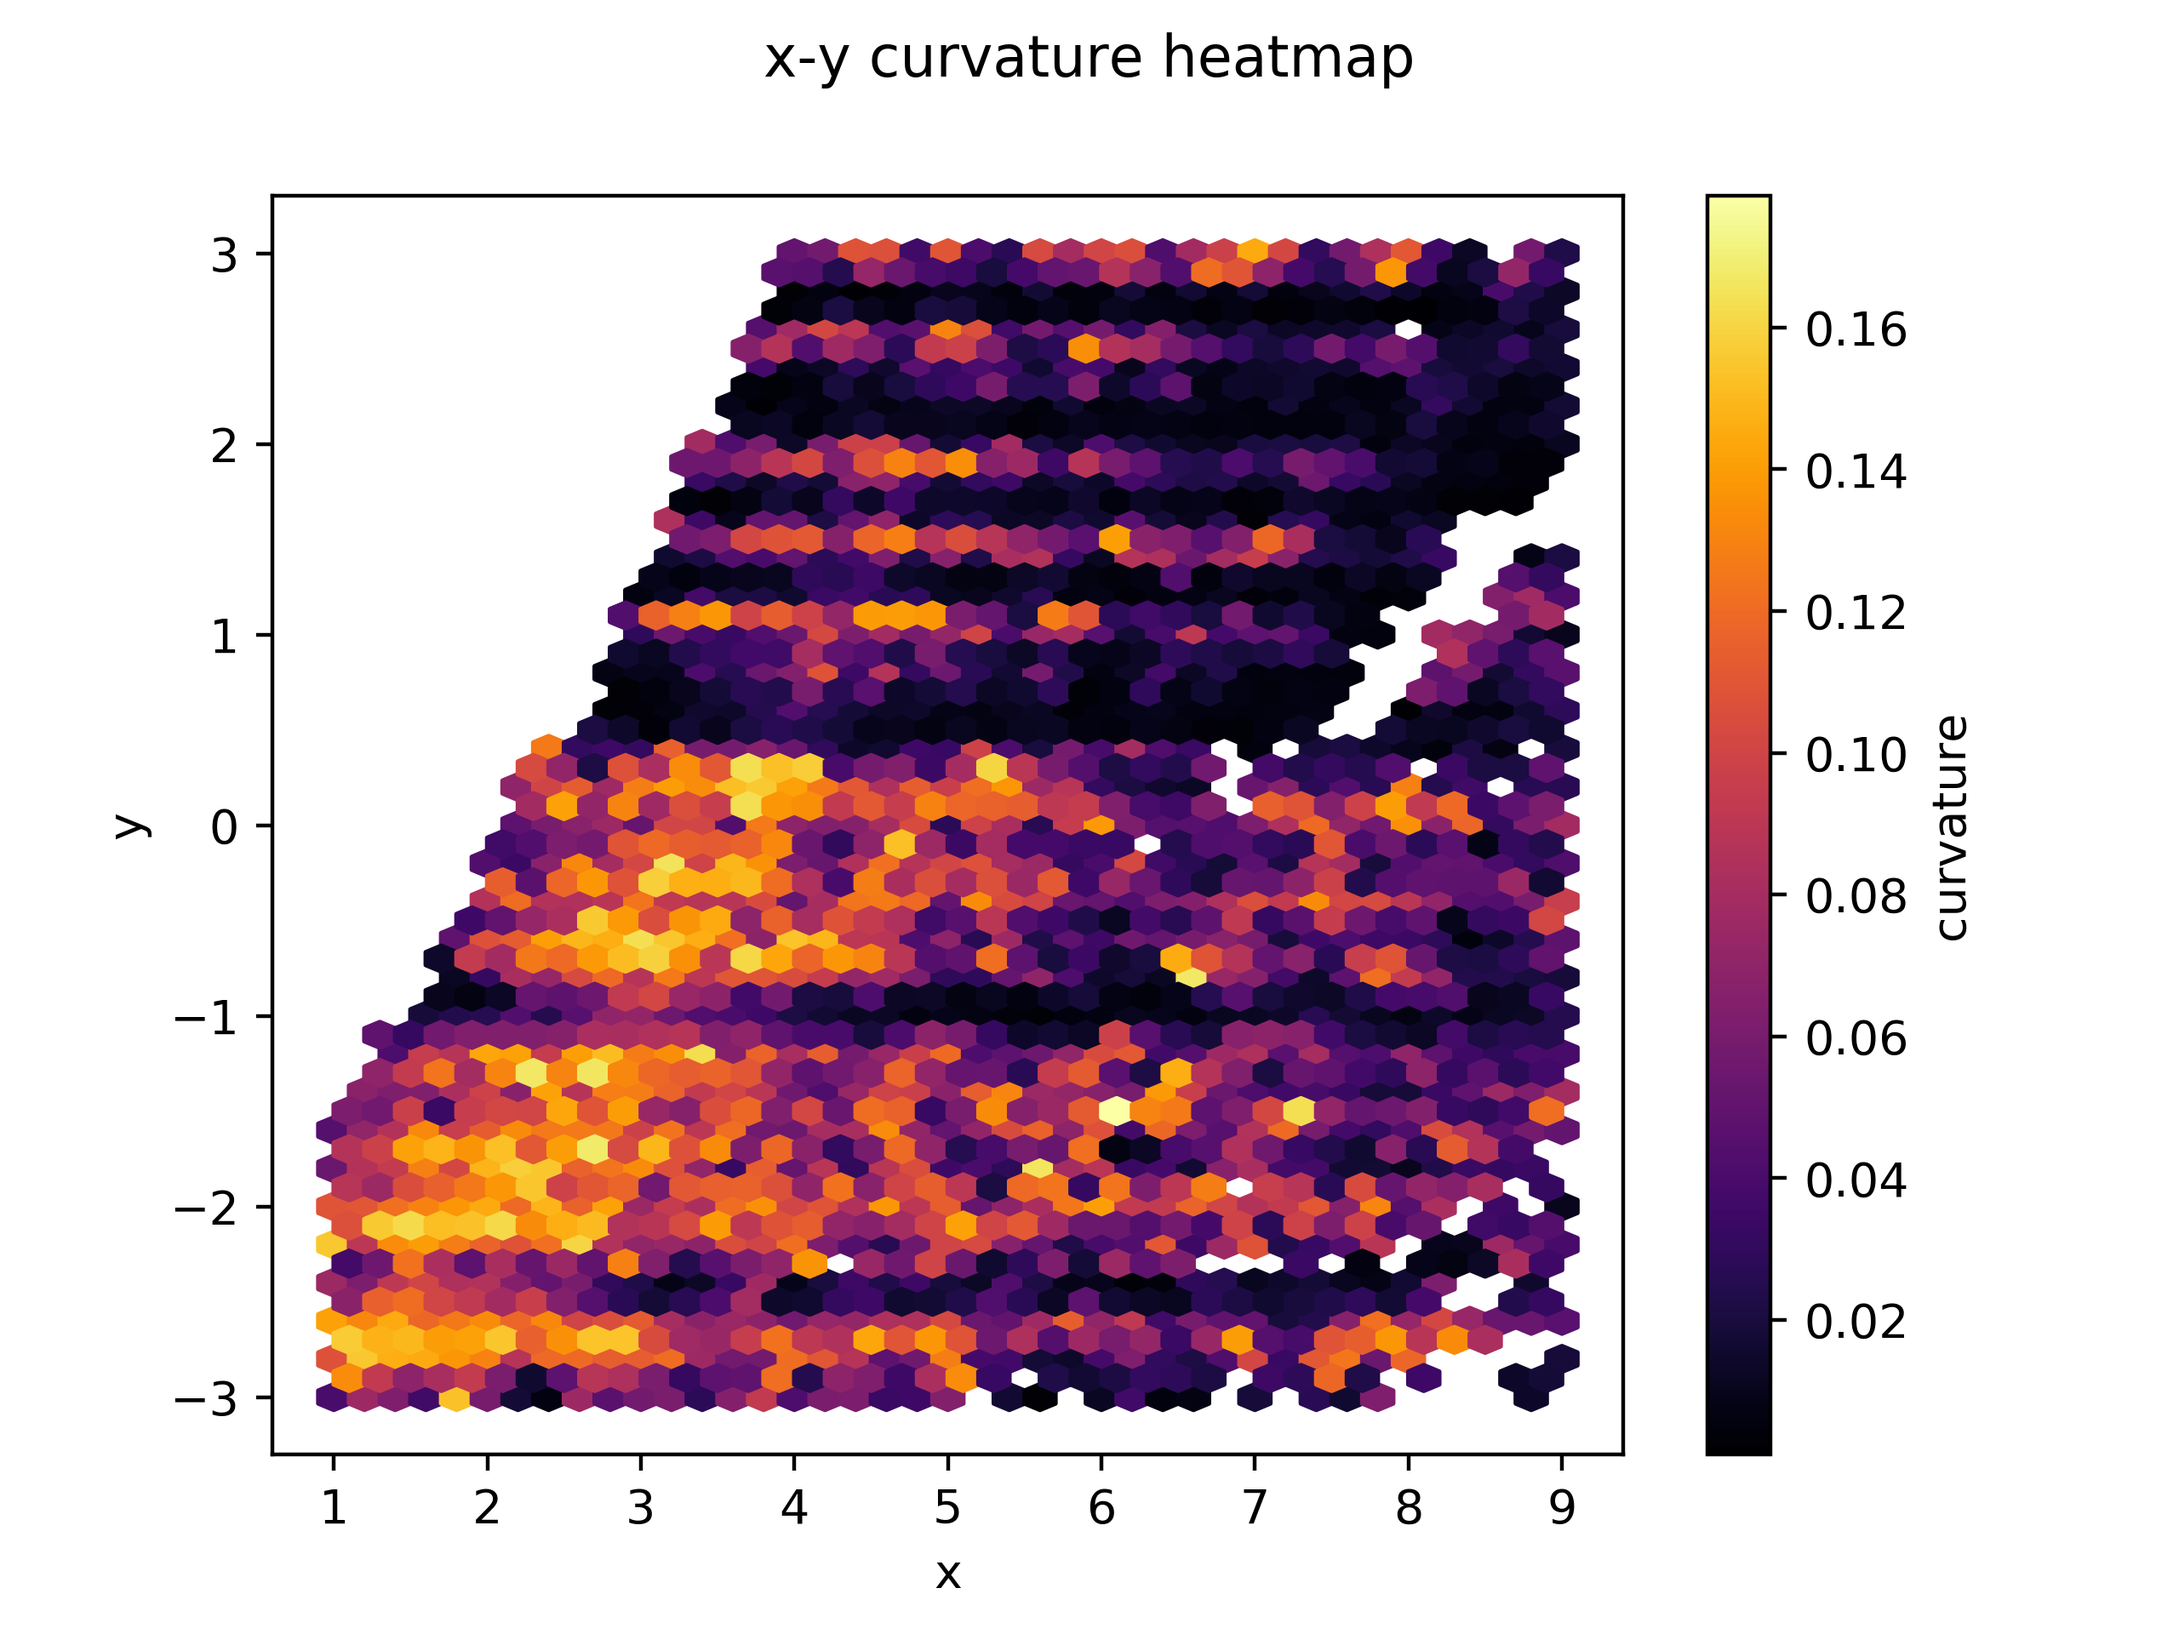
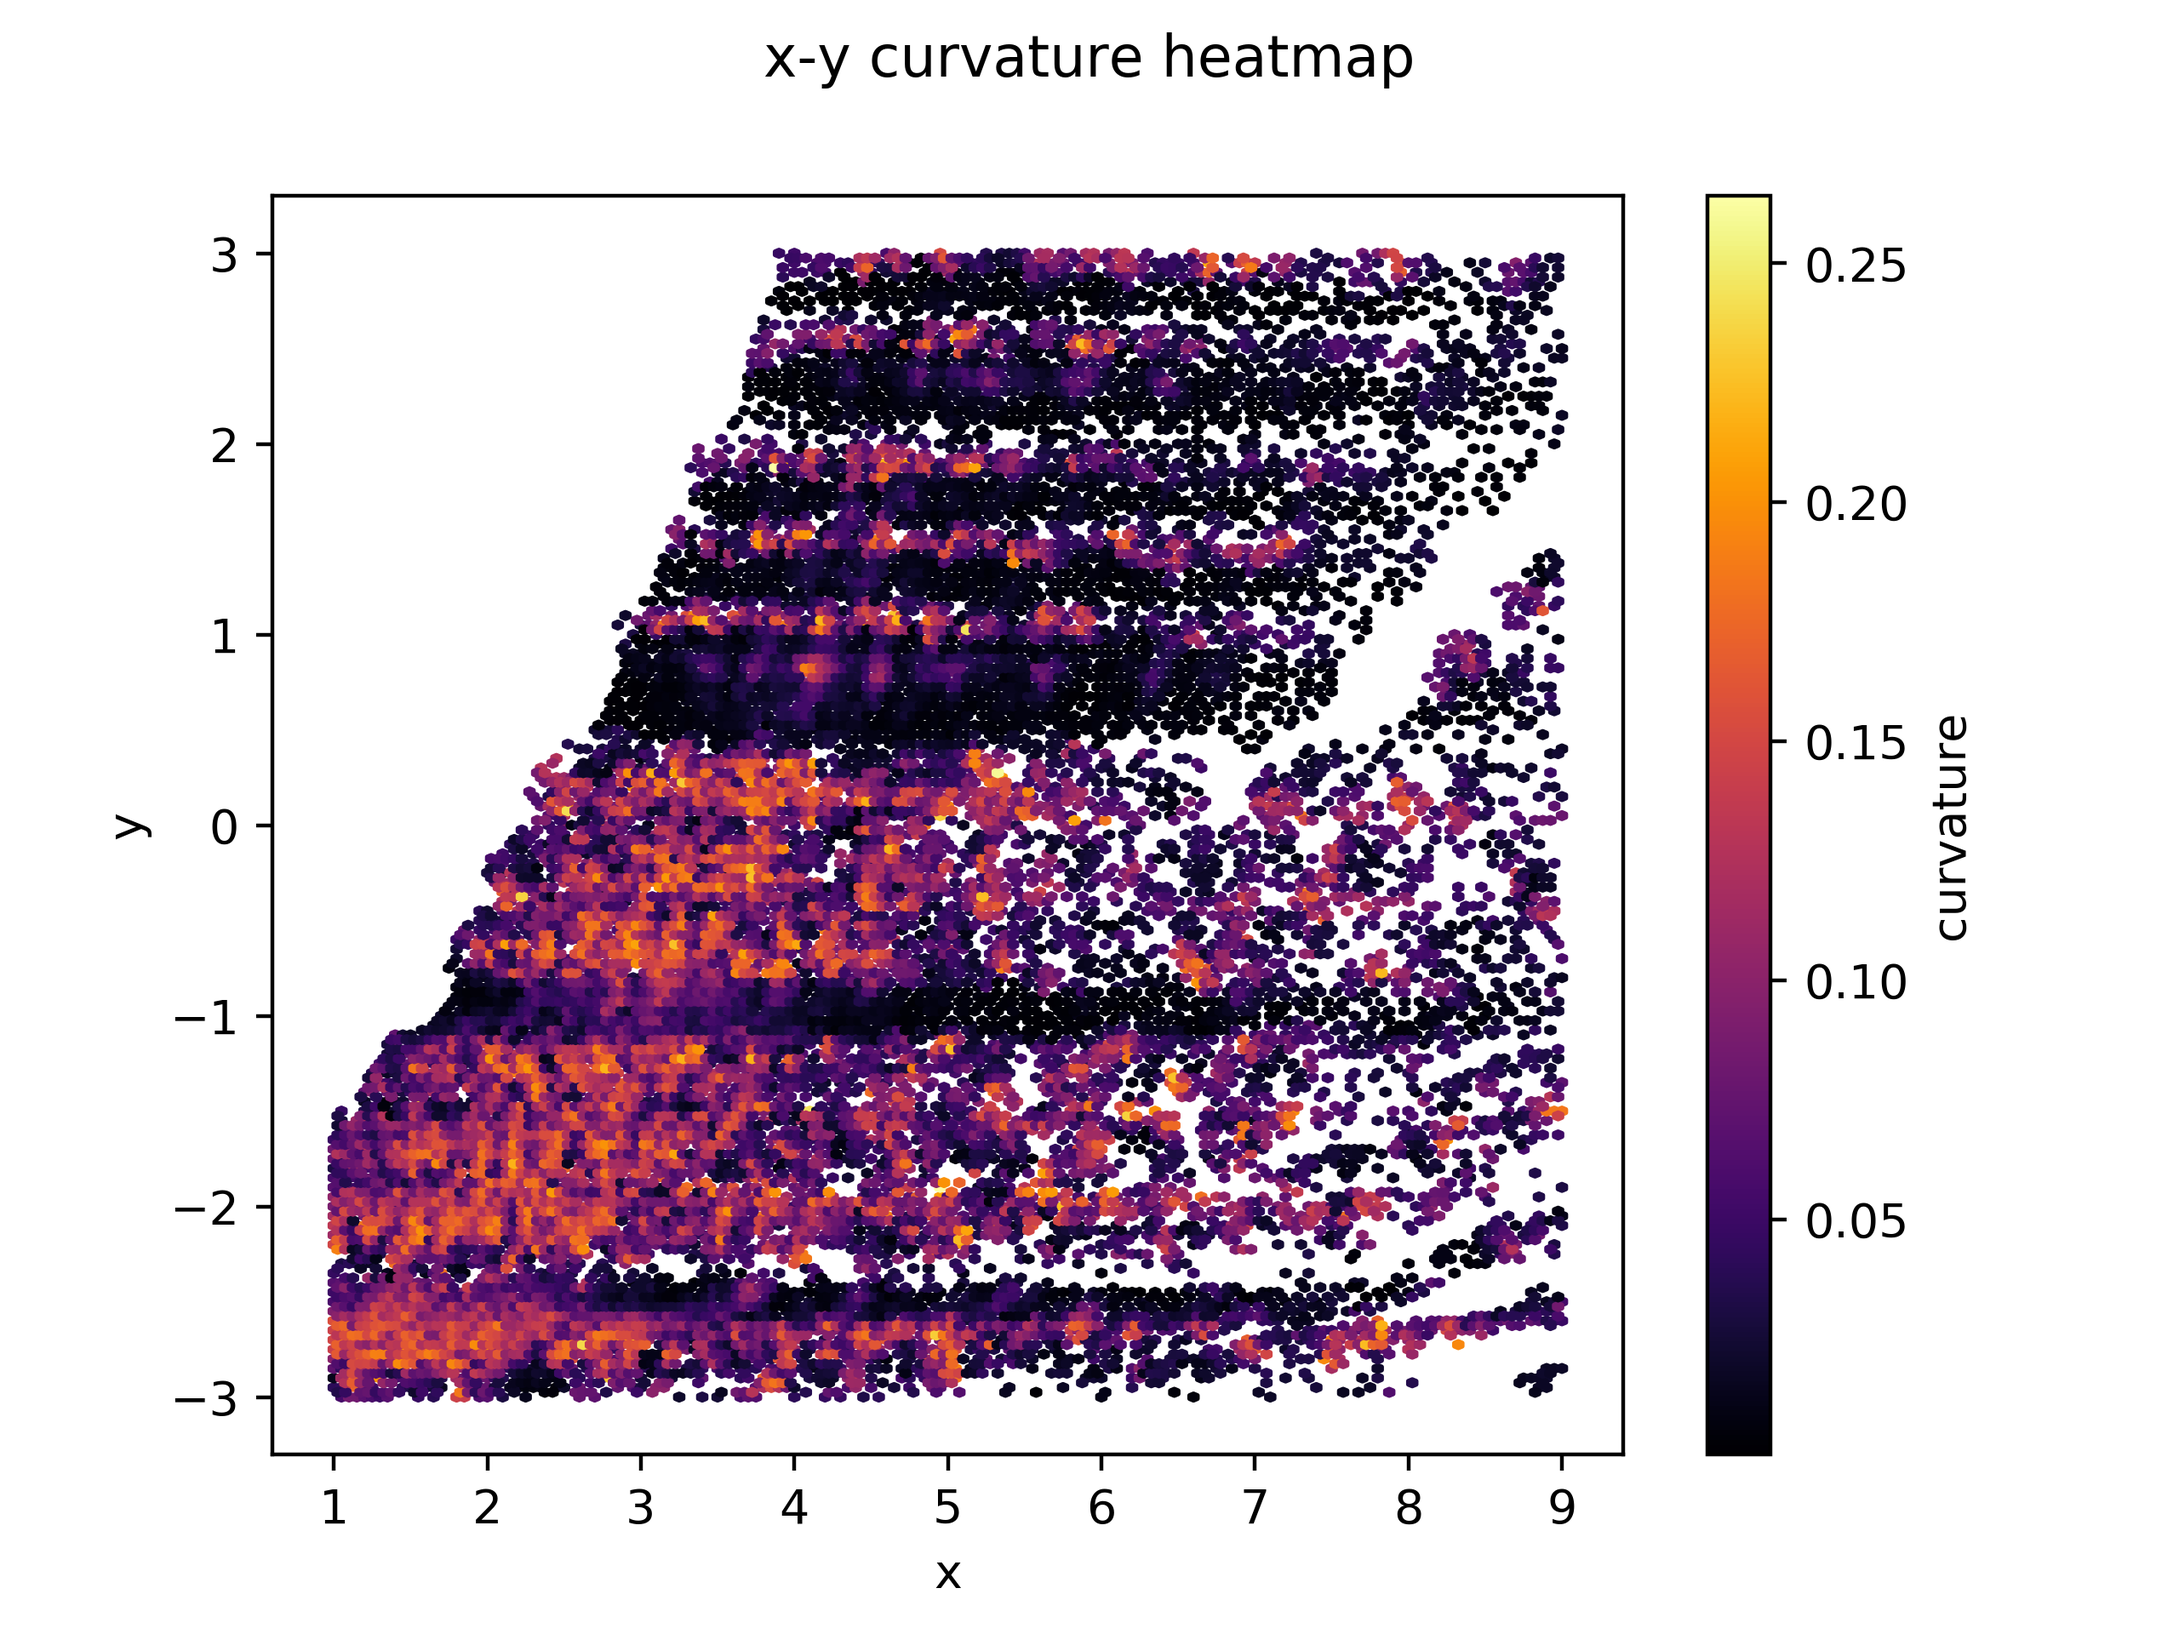
added x-y heatmaps

diff --git a/src/pcl_integrator_node_offline.cpp b/src/pcl_integrator_node_offline.cpp
@@ -2,36 +2,25 @@
 #include <rosbag/view.h>
 #include <tf2_msgs/TFMessage.h>
 #include <cxxopts.hpp>
-
+#include <boost/algorithm/string/classification.hpp>
+#include <boost/algorithm/string/split.hpp>
 
 #include "myproject1/pcl_integrator.h"
 
-bool fillTfBufferFromBag(rosbag::View& view, ros::Duration bagDuration ,tf2_ros::Buffer* tfBuffer);
+bool fillTfBufferFromBag(rosbag::View &view, ros::Duration bagDuration, tf2_ros::Buffer *tfBuffer);
 
 int main(int argc, char *argv[])
 {
     cxxopts::Options options("pcl_integrator_offline", "pcl_integrator_offline_node");
 
-    options.add_options()
-        ("f,fixed_frame", "fixed frame for integration", cxxopts::value<std::string>()->default_value("odom"))
-        ("b,crop_frame", "base footprint frame to crop", cxxopts::value<std::string>()->default_value("base_footprint"))
-        ("i,input_bag_path", "bag for input bag with raw pcls", cxxopts::value<std::string>()->default_value("/home/srbh/agrirobo_proj/with_pcls/largeplants.bag"))
-        ("t,pcl_topic", "the pcl topic to integrate", cxxopts::value<std::string>()->default_value("/sensor/laser/vlp16/front/pointcloud_xyzi"))
-        ("c,crop_flag", "Enable cropping pcl", cxxopts::value<bool>()->default_value("true"))
-        ("m,max_buffer_size", "Param maximum buffer size", cxxopts::value<int>()->default_value("10"))
-        ("x,size_x", "Param x for crop box in m", cxxopts::value<float>()->default_value("8."))
-        ("y,size_y", "Param y for crop box in m", cxxopts::value<float>()->default_value("6."))
-        ("w,offset_x", "Param x offset for crop box in m", cxxopts::value<float>()->default_value("1."))
-        ("z,offset_y", "Param y offset for crop box in m", cxxopts::value<float>()->default_value("0."))
-        ("h,help", "Print usage")
-    ;
+    options.add_options()("f,fixed_frame", "fixed frame for integration", cxxopts::value<std::string>()->default_value("odom"))("b,crop_frame", "base footprint frame to crop", cxxopts::value<std::string>()->default_value("base_footprint"))("i,input_bag_path", "bag for input bag with raw pcls", cxxopts::value<std::string>()->default_value("/home/srbh/agrirobo_proj/with_pcls/largeplants.bag"))("t,pcl_topic", "the pcl topic to integrate", cxxopts::value<std::string>()->default_value("/sensor/laser/vlp16/front/pointcloud_xyzi"))("c,crop_flag", "Enable cropping pcl", cxxopts::value<bool>()->default_value("true"))("m,max_buffer_size", "Param maximum buffer size", cxxopts::value<int>()->default_value("10"))("x,size_x", "Param x for crop box in m", cxxopts::value<float>()->default_value("8."))("y,size_y", "Param y for crop box in m", cxxopts::value<float>()->default_value("6."))("w,offset_x", "Param x offset for crop box in m", cxxopts::value<float>()->default_value("1."))("z,offset_y", "Param y offset for crop box in m", cxxopts::value<float>()->default_value("0."))("h,help", "Print usage");
 
     auto result = options.parse(argc, argv);
 
     if (result.count("help"))
     {
-      std::cout << options.help() << std::endl;
-      exit(0);
+        std::cout << options.help() << std::endl;
+        exit(0);
     }
     std::string fixed_frame;
     if (result.count("fixed_frame"))
@@ -53,7 +42,7 @@ int main(int argc, char *argv[])
     {
         pcl_topic = result["pcl_topic"].as<std::string>();
     }
-      
+
     bool crop_flag = result["crop_flag"].as<bool>();
     int max_buffer_size = result["max_buffer_size"].as<int>();
     float size_x = result["size_x"].as<float>();
@@ -61,7 +50,7 @@ int main(int argc, char *argv[])
     float offset_x = result["offset_x"].as<float>();
     float offset_y = result["offset_y"].as<float>();
     std::string target_frame = crop_frame;
-/*
+    /*
     bool crop_flag = true;
     int max_buffer_size = 10;
     float size_x = 8.;
@@ -76,13 +65,14 @@ int main(int argc, char *argv[])
     
 */
 
+    std::vector<std::string> input_path_split, input_topic_split;
+    boost::split(input_path_split, input_bag_path, boost::is_any_of("."), boost::token_compress_on);
+
     // initialize ros
     rosbag::Bag input_bag, output_bag;
     input_bag.open(input_bag_path, rosbag::bagmode::Read);
-    output_bag.open(input_bag_path+"_integrated.bag", rosbag::bagmode::Write);
+    output_bag.open(input_path_split[0] + "_integrated.bag", rosbag::bagmode::Write);
 
-    
-    
     std::vector<std::string> topics;
     topics.push_back("/tf");
     rosbag::View view(input_bag, rosbag::TopicQuery(topics));
@@ -94,16 +84,17 @@ int main(int argc, char *argv[])
     ros::Duration bagDuration = end - start;
     bagDuration *= 1.5;
     tf2_ros::Buffer tf_buffer(bagDuration);
-    
-    if(!fillTfBufferFromBag(view,bagDuration, &tf_buffer)){
+
+    if (!fillTfBufferFromBag(view, bagDuration, &tf_buffer))
+    {
         return 1;
     }
 
     Window window(crop_frame, size_x, size_y, offset_x, offset_y);
     PclIntegrator pcl_integrator(fixed_frame, window, &tf_buffer, max_buffer_size);
-    
+
     rosbag::View view_all(input_bag);
-    
+
     for (rosbag::MessageInstance const msg : view_all)
     {
         sensor_msgs::PointCloud2::ConstPtr pcl_msg = msg.instantiate<sensor_msgs::PointCloud2>();
@@ -113,18 +104,23 @@ int main(int argc, char *argv[])
             output_bag.write(msg.getTopic(), msg.getTime(), msg);
             continue;
         }
-        if(!msg.getTopic().compare(pcl_topic) == 0){
+        if (!msg.getTopic().compare(pcl_topic) == 0)
+        {
             // not the right pcl topic -> write to bag
             output_bag.write(msg.getTopic(), msg.getTime(), msg);
             continue;
         }
 
-        if(!pcl_integrator.integrate(pcl_msg)){
+        if (!pcl_integrator.integrate(pcl_msg))
+        {
             //ROS_ERROR("%s: error integrating pcl at time %.9f.", __func__, pcl_msg->header.stamp.toSec());
             continue;
         }
+
+        ROS_ERROR("%s adding to bag %.9f", __func__, pcl_msg->header.stamp.toSec());
         sensor_msgs::PointCloud2::Ptr integrated_pcl = pcl_integrator.integratedCloud(target_frame, crop_flag);
-        output_bag.write(pcl_topic+"_integrated", msg.getTime(), integrated_pcl);
+        boost::split(input_topic_split, pcl_topic, boost::is_any_of("/"), boost::token_compress_on);
+        output_bag.write(input_topic_split[0] + "/" + input_topic_split[1] + "/" + input_topic_split[2] + "/" + input_topic_split[3] + "/" + "integrated_" + input_topic_split[4], msg.getTime(), integrated_pcl);
     }
     input_bag.close();
     output_bag.close();
@@ -132,26 +128,31 @@ int main(int argc, char *argv[])
     return 0;
 }
 
-bool fillTfBufferFromBag(rosbag::View& view, ros::Duration bagDuration ,tf2_ros::Buffer* tfBuffer)
+bool fillTfBufferFromBag(rosbag::View &view, ros::Duration bagDuration, tf2_ros::Buffer *tfBuffer)
 {
-    if(bagDuration.toSec() < 1e-3){
+    if (bagDuration.toSec() < 1e-3)
+    {
         ROS_ERROR("input bag is empty!!!");
         return false;
     }
-       
+
     tfBuffer->setUsingDedicatedThread(true);
 
     // fill tf buffer
     std::cout << "filling tf buffer..." << std::endl;
     rosbag::View::const_iterator it;
     int tf_count = 0;
-    for(it = view.begin(); it != view.end(); ++it){
-        if(it->isType<tf2_msgs::TFMessage>()){
+    for (it = view.begin(); it != view.end(); ++it)
+    {
+        if (it->isType<tf2_msgs::TFMessage>())
+        {
             ROS_INFO_THROTTLE(0.5, "t");
             tf2_msgs::TFMessage::Ptr tfMessage = it->instantiate<tf2_msgs::TFMessage>();
             // update tfBuffer
-            for(size_t i = 0; i < tfMessage->transforms.size(); ++i){
-                if(!tfBuffer->setTransform(tfMessage->transforms[i], "bag_file")){
+            for (size_t i = 0; i < tfMessage->transforms.size(); ++i)
+            {
+                if (!tfBuffer->setTransform(tfMessage->transforms[i], "bag_file"))
+                {
                     std::cout << "x" << std::flush;
                 }
             }
@@ -159,6 +160,7 @@ bool fillTfBufferFromBag(rosbag::View& view, ros::Duration bagDuration ,tf2_ros:
             continue;
         }
     }
-    std::cout << std::endl << "parsed " << tf_count << " tf messages." << std::endl;
+    std::cout << std::endl
+              << "parsed " << tf_count << " tf messages." << std::endl;
     return true;
 }

diff --git a/scripts/plot.py b/scripts/plot.py
@@ -22,7 +22,7 @@ fig1, ax = plt.subplots(1, 2)
 ax[0].scatter(intensity_df['values'], curvature_df['values'], s= 0.01**2)
 ax[0].set_xlabel("intensity")
 ax[0].set_ylabel("curvature")
-ax[1].hist2d(intensity_df['values'], curvature_df['values'], 25, normed= True, norm = mcolors.PowerNorm(0.3), cmap='viridis')
+ax[1].hexbin(intensity_df['values'], curvature_df['values'], norm = mcolors.PowerNorm(0.3), cmap='inferno')
 ax[1].set_xlabel("intensity")
 ax[1].set_ylabel("curvature")
 fig1.suptitle("intensity vs curvature")
@@ -61,7 +61,6 @@ colors = map(lambda x: colmap[x+1], labels)
 ax.scatter(data['intensity'], data['curvature'], color=colors, alpha=0.3, edgecolor='k')
 for idx, centroid in enumerate(centroids):
     ax.scatter(*centroid, color=colmap[idx+3])
-    #print(centroid)
 ax.set_xlabel("intensity")
 ax.set_ylabel("curvature")
 fig5.suptitle("curvature vs intensity kmeans scatter")
@@ -71,9 +70,7 @@ fig6, ax = plt.subplots()
 gmm = GaussianMixture(n_components=2, covariance_type= 'full').fit(data)
 labels = gmm.predict(data)
 probs = gmm.predict_proba(data)
-#ax.scatter(data['intensity'], data['curvature'], c=labels, cmap='viridis')
 hx = ax.hexbin(data['intensity'], data['curvature'],  C= probs.max(1), cmap=CM.jet)
-#ax.hist2d(data['intensity'], data['curvature'], c=labels, cmap='viridis')
 ax.set_xlabel("intensity")
 ax.set_ylabel("curvature")
 fig6.colorbar(hx, ax=ax, label = 'probability')
@@ -82,7 +79,7 @@ fig6.savefig(path + "int_vs_curv_gmm.png", dpi=400)
 
 
 fig7, ax = plt.subplots()
-hx1 = ax.hexbin(x_df['values'], y_df['values'], C= data['curvature'], cmap='inferno', gridsize= (40,30))
+hx1 = ax.hexbin(x_df['values'], y_df['values'], C= data['curvature'], cmap='inferno', gridsize= (160,120))
 ax.set_xlabel("x")
 ax.set_ylabel("y")
 fig7.colorbar(hx1, ax= ax , label = 'curvature')
@@ -93,7 +90,7 @@ curv_positions = hx1.get_offsets()
 
 
 fig8, ax = plt.subplots()
-hx2 = ax.hexbin(x_df['values'], y_df['values'], C= data['intensity'], cmap='inferno', gridsize= (40,30))
+hx2 = ax.hexbin(x_df['values'], y_df['values'], C= data['intensity'], cmap='inferno', gridsize= (160,120))
 ax.set_xlabel("x")
 ax.set_ylabel("y")
 fig8.colorbar(hx2, ax=ax, label = 'intensity')
@@ -101,3 +98,42 @@ fig8.suptitle("x-y intensity heatmap")
 fig8.savefig(path + "x_y_int.png", dpi=400)
 int_vals = hx2.get_array()
 int_positions = hx2.get_offsets()
+
+fig9, ax = plt.subplots()
+hx2 = ax.hexbin(x_df['values'], y_df['values'], cmap='inferno', gridsize= (160,120))
+ax.set_xlabel("x")
+ax.set_ylabel("y")
+fig9.colorbar(hx2, ax=ax, label = 'intensity')
+fig9.suptitle("x-y count heatmap")
+fig9.savefig(path + "x_y_count.png", dpi=400)
+count_vals = hx2.get_array()
+count_positions = hx2.get_offsets()
+
+binned_data = pd.DataFrame({'intensity':int_vals, 'curvature':curv_vals}) 
+
+fig10, ax = plt.subplots(2, 2)
+ax[0, 0].scatter(intensity_df['values'], curvature_df['values'], s= 0.01**2)
+ax[0, 0].set_xlabel("intensity")
+ax[0, 0].set_ylabel("curvature")
+ax[0, 1].hexbin(intensity_df['values'], curvature_df['values'], norm = mcolors.PowerNorm(0.3), cmap='inferno')
+ax[0,1].set_xlabel("intensity")
+ax[0,1].set_ylabel("curvature")
+ax[1,0].scatter(binned_data['intensity'], binned_data['curvature'], s= 0.01**2)
+ax[1,0].set_xlabel("intensity")
+ax[1,0].set_ylabel("curvature")
+ax[1,1].hexbin(binned_data['intensity'], binned_data['curvature'], norm = mcolors.PowerNorm(0.3), cmap='inferno')
+ax[1,1].set_xlabel("intensity")
+ax[1,1].set_ylabel("curvature")
+fig10.suptitle("intensity vs curvature")
+fig10.savefig(path + "int_vs_curv_binned.png", dpi=800)
+
+fig11, ax = plt.subplots()
+gmm = GaussianMixture(n_components=3, covariance_type= 'full').fit(binned_data)
+labels = gmm.predict(binned_data)
+probs = gmm.predict_proba(binned_data)
+hx = ax.hexbin(binned_data['intensity'], binned_data['curvature'],  C= probs.max(1), cmap=CM.jet )
+ax.set_xlabel("intensity")
+ax.set_ylabel("curvature")
+fig11.colorbar(hx, ax=ax, label = 'probability')
+fig11.suptitle("curvature vs intensity gmm heatmap binned")
+fig11.savefig(path + "int_vs_curv_gmm_binned.png", dpi=400)

diff --git a/src/pcl_colored_node.cpp b/src/pcl_colored_node.cpp
@@ -49,7 +49,7 @@ void callback(const sensor_msgs::ImageConstPtr &image, const sensor_msgs::PointC
     }
     catch (cv_bridge::Exception &ex)
     {
-        ROS_ERROR("[draw_frames] Failed to convert image");
+        ROS_ERROR("Failed to convert image");
     }
 
     pcl::fromROSMsg(*cloud, *cloud_in);
@@ -68,7 +68,6 @@ void callback(const sensor_msgs::ImageConstPtr &image, const sensor_msgs::PointC
     cloud_out->header.frame_id = image->header.frame_id;
     if (cam_model_flag == true)
     {
-
         for (it = cloud_out->points.begin(); it < cloud_out->points.end(); it++)
         {
             cv::Point3d pt_cv(it->x, it->y, it->z);
@@ -85,7 +84,6 @@ void callback(const sensor_msgs::ImageConstPtr &image, const sensor_msgs::PointC
             }
         }
     }
-
     cloud_colored->header = cloud_out->header;
     point_cloud_pub.publish(cloud_colored);
 }
